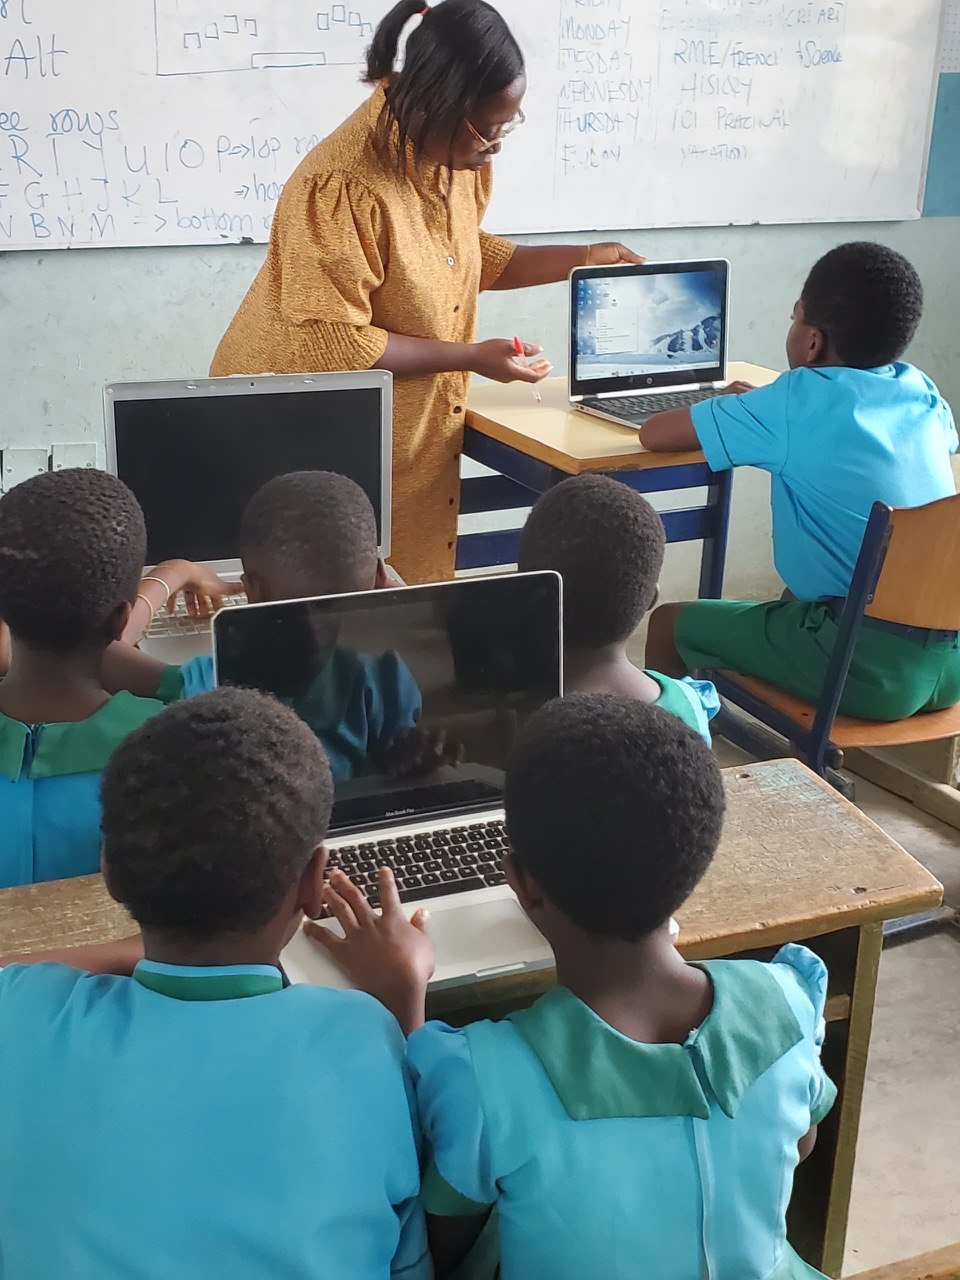
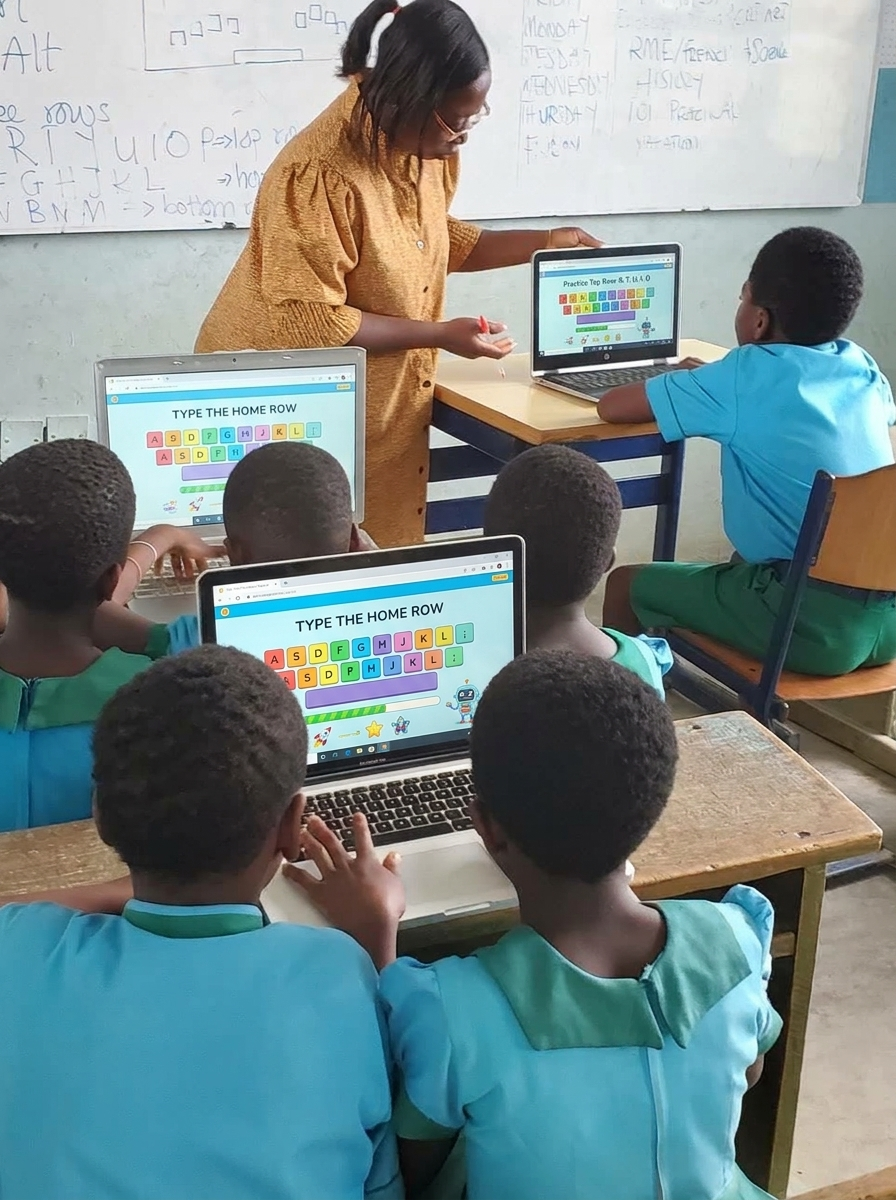
images updated and academic section too

diff --git a/style.css b/style.css
@@ -685,7 +685,7 @@ h1, h2, h3, h4, h5, h6 {
 
 .program-preview-img {
   position: relative;
-  height: 220px;
+  height: 230px;
   overflow: hidden;
 }
 
@@ -694,6 +694,21 @@ h1, h2, h3, h4, h5, h6 {
   height: 100%;
   object-fit: cover;
   transition: var(--transition-slow);
+}
+
+.program-preview-img img.program-img-creche,
+.program-preview-img img[src*="creche classroom"] {
+  object-position: center 18% !important;
+}
+
+.program-preview-img img.program-img-kg,
+.program-preview-img img[src*="KG-class"] {
+  object-position: center 25% !important;
+}
+
+.program-preview-img img.program-img-primary,
+.program-preview-img img[src*="IT teacher"] {
+  object-position: center 15% !important;
 }
 
 .program-preview-card:hover .program-preview-img img {
@@ -1874,12 +1889,31 @@ img[src*="kids grad.jpg"],
   object-position: center center !important;
 }
 
-/* Perfect framing for IT Teacher image so teacher is clearly visible */
+/* Perfect framing for IT Teacher image so teacher and classroom are clearly visible */
 img[src*="IT teacher"],
 .student-img[src*="IT teacher"],
-.academic-image img[src*="IT teacher"] {
+.academic-image img[src*="IT teacher"],
+.program-img-primary {
   object-fit: cover;
-  object-position: center top !important;
+  object-position: center 15% !important;
+}
+
+/* Perfect framing for Creche & Nursery classroom images */
+img[src*="creche classroom"],
+.facility-img[src*="creche classroom"],
+.academic-image img[src*="creche classroom"],
+.program-img-creche {
+  object-fit: cover;
+  object-position: center 18% !important;
+}
+
+/* Perfect framing for Kindergarten images */
+img[src*="KG-class"],
+.facility-img[src*="KG-class"],
+.academic-image img[src*="KG-class"],
+.program-img-kg {
+  object-fit: cover;
+  object-position: center 25% !important;
 }
 
 /* Perfect framing for Extracurricular Activities image - brought down for optimal view */
@@ -1891,24 +1925,20 @@ img[src*="kids-playing.png"],
   object-position: center 35% !important;
 }
 
-/* Perfect framing for Campus, Playground, Creche Facilities & Student images */
+/* Perfect framing for Campus, Playground, Facilities & Student images */
 img[src*="building.jpg"],
 img[src*="campus-building.jpg"],
 img[src*="campus-infrastructure.jpg"],
 img[src*="completed-building.jpg"],
 img[src*="modern-campus-building.jpg"],
 img[src*="playground.jpg"],
-img[src*="creche classroom.jpg"],
-img[src*="KG-class.jpg"],
 img[src*="stud.jpg"],
 .facility-img[src*="building.jpg"],
 .facility-img[src*="campus-building.jpg"],
 .facility-img[src*="campus-infrastructure.jpg"],
 .facility-img[src*="completed-building.jpg"],
 .facility-img[src*="modern-campus-building.jpg"],
-.facility-img[src*="playground.jpg"],
-.facility-img[src*="KG-class.jpg"],
-.facility-img[src*="creche classroom.jpg"] {
+.facility-img[src*="playground.jpg"] {
   object-fit: cover;
   object-position: center center !important;
 }

diff --git a/index.html b/index.html
@@ -214,8 +214,9 @@
             <div class="program-preview-card">
               <div class="program-preview-img">
                 <img
-                  src="images/classroom-creche.png"
+                  src="images/creche classroom.jpg"
                   alt="Crèche & Nursery"
+                  class="program-img-creche"
                 />
                 <div class="program-overlay">
                   <span class="program-age">Ages 1-4</span>
@@ -235,8 +236,9 @@
             <div class="program-preview-card">
               <div class="program-preview-img">
                 <img
-                  src="images/classroom-primary.png"
+                  src="images/KG-class.jpg"
                   alt="Kindergarten"
+                  class="program-img-kg"
                 />
                 <div class="program-overlay">
                   <span class="program-age">Ages 4-6</span>
@@ -256,8 +258,9 @@
             <div class="program-preview-card">
               <div class="program-preview-img">
                 <img
-                  src="images/kids-playing.png"
+                  src="images/IT teacher.jpg"
                   alt="Primary School Students"
+                  class="program-img-primary"
                 />
                 <div class="program-overlay">
                   <span class="program-age">Ages 6-12</span>
